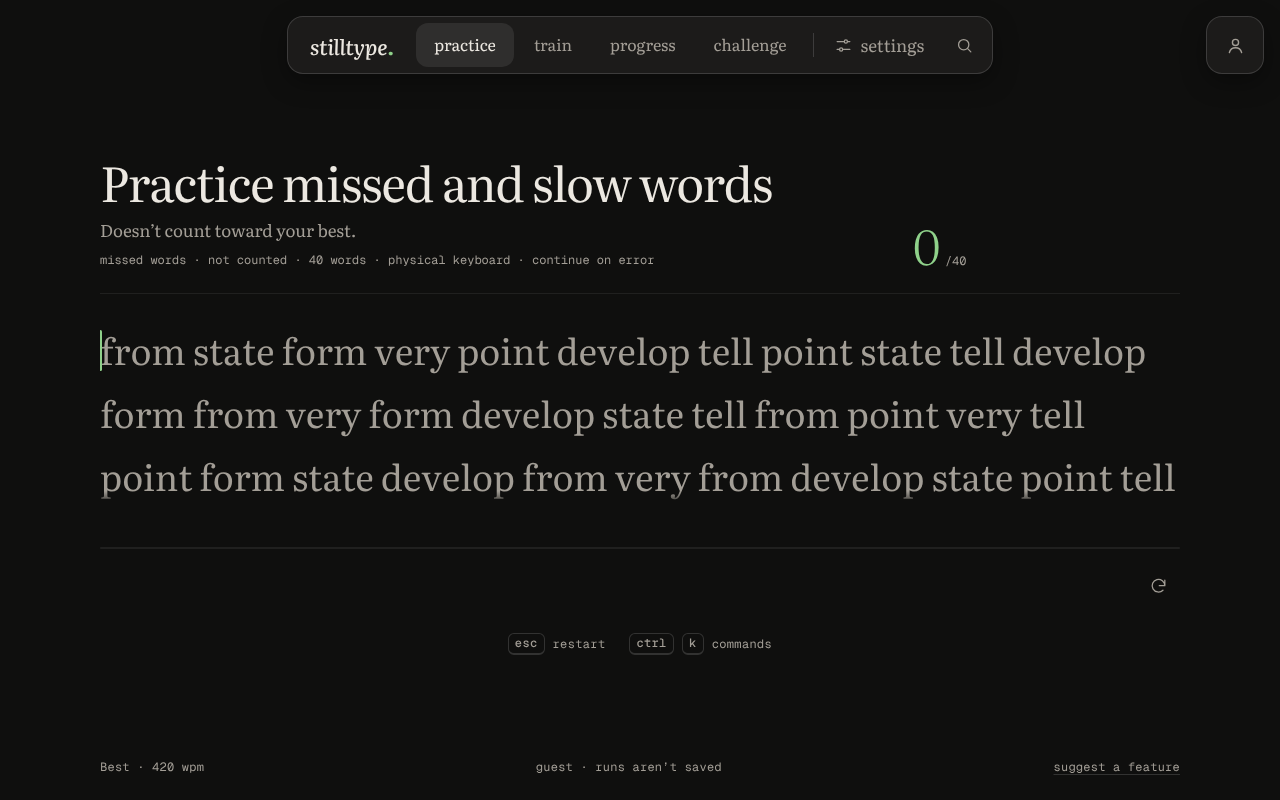
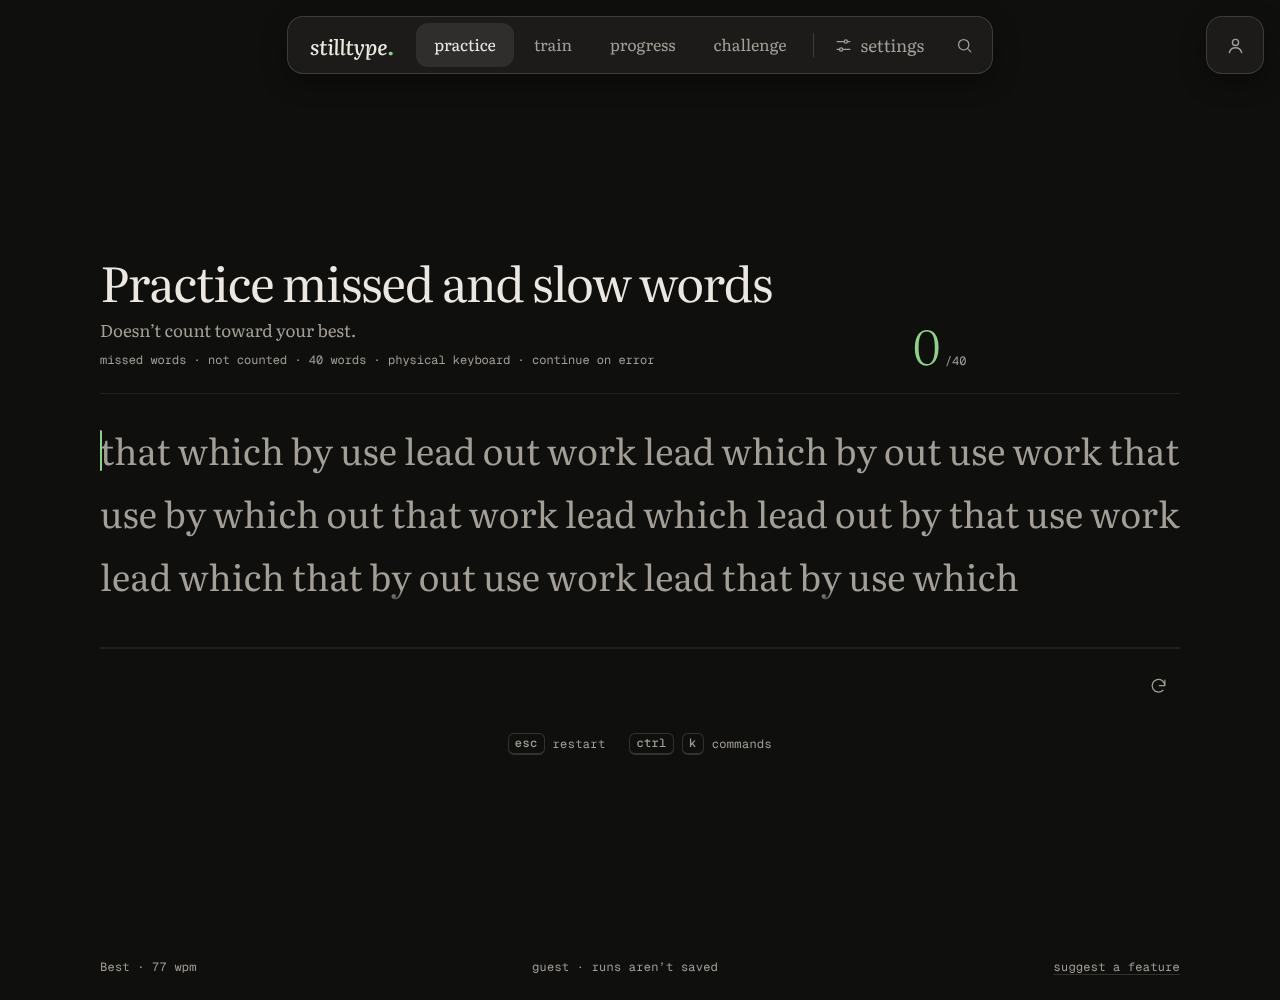
Take the missed-words screenshots at a realistic typing speed
Claude-Session: https://claude.ai/code/session_01SaBNo9RHRaTR8cCUjK1iLD

diff --git a/e2e/practice-missed-words.spec.js b/e2e/practice-missed-words.spec.js
@@ -1,20 +1,21 @@
 import { test, expect, openApp, passageText, typeInto, chooseWords } from './fixtures.js';
 
 // Types the passage with one wrong-then-fixed letter in each chosen word.
-async function typeWithMisses(page, text, wordIndexes) {
+// `delay` (ms per key) lets the screenshots show a human typing speed.
+async function typeWithMisses(page, text, wordIndexes, delay = 0) {
   const words = text.split(' ');
   await page.locator('#typing-input').focus();
   for (const [index, word] of words.entries()) {
     if (wordIndexes.includes(index)) {
       const miss = word[0] === 'x' ? 'z' : 'x';
-      await page.keyboard.type(miss);
-      await page.keyboard.press('Backspace');
+      await page.keyboard.type(miss, { delay });
+      await page.keyboard.press('Backspace', { delay });
     }
-    await page.keyboard.type(index < words.length - 1 ? `${word} ` : word);
+    await page.keyboard.type(index < words.length - 1 ? `${word} ` : word, { delay });
   }
 }
 
-async function finishWithTwoMisses(page) {
+async function finishWithTwoMisses(page, delay = 0) {
   await openApp(page);
   await chooseWords(page, 10);
   const text = await passageText(page);
@@ -22,7 +23,7 @@ async function finishWithTwoMisses(page) {
   // Two distinct words, so the button counts two missed.
   const first = 1;
   const second = words.findIndex((word, index) => index > first && word !== words[first]);
-  await typeWithMisses(page, text, [first, second]);
+  await typeWithMisses(page, text, [first, second], delay);
   await expect(page.locator('body')).toHaveAttribute('data-view', 'results');
   return [words[first], words[second]];
 }
@@ -56,16 +57,19 @@ test('missed and slow words become their own uncounted practice run', async ({ p
 });
 
 test('screenshots', async ({ page }) => {
-  await page.setViewportSize({ width: 1280, height: 800 });
+  await page.setViewportSize({ width: 1280, height: 1000 });
   for (const scheme of ['dark', 'light']) {
     await page.emulateMedia({ colorScheme: scheme, reducedMotion: 'reduce' });
-    await finishWithTwoMisses(page);
+    // ~130ms per key is roughly 90 wpm, so the card shows a believable run.
+    await finishWithTwoMisses(page, 130);
     await expect(page.locator('#practice-words')).toBeVisible();
-    await page.evaluate(() => window.scrollTo(0, document.querySelector('#run-card').getBoundingClientRect().bottom + scrollY - 700));
+    await page.mouse.move(1270, 990);
+    await page.evaluate(() => window.scrollTo(0, 0));
     await page.screenshot({ path: `docs/screenshots/practice-missed-words/run-card-${scheme}.png` });
     if (scheme === 'dark') {
       await page.locator('#practice-words').click();
       await expect(page.locator('#session-kicker')).toHaveText('missed words');
+      await page.evaluate(() => window.scrollTo(0, 0));
       await page.screenshot({ path: 'docs/screenshots/practice-missed-words/practice-passage.png' });
     }
   }
